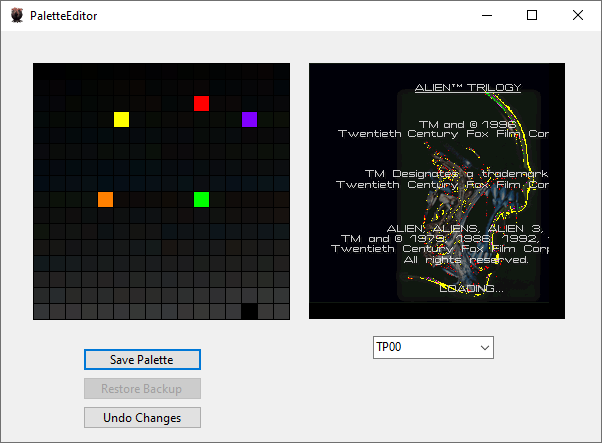
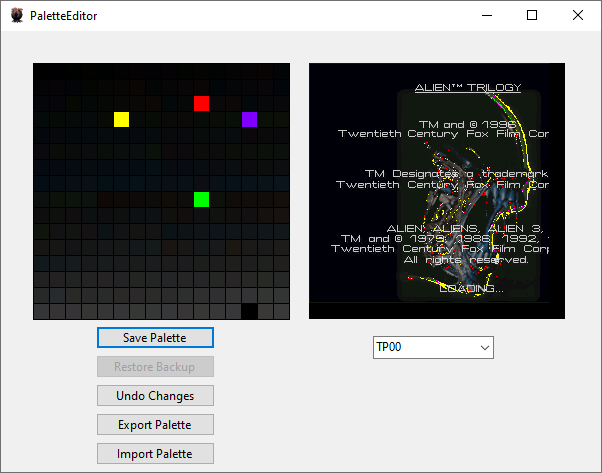
import palette option added

diff --git a/ALTViewer/PaletteEditor.cs b/ALTViewer/PaletteEditor.cs
@@ -12,7 +12,7 @@
         public PaletteEditor(string selected, bool embedded, List<BndSection> loadedSections)
         {
             InitializeComponent();
-            if(embedded)
+            if (embedded)
             {
 
             }
@@ -62,6 +62,7 @@
                     palette[index * 3 + 2] = dlg.Color.B;
                     Invalidate();
                     RenderImage();
+                    button3.Enabled = true;
                 }
             }
         }
@@ -82,16 +83,17 @@
             File.Move(backupDirectory, fileDirectory, true);
             File.Delete(backupDirectory);
             button2.Enabled = false;
-            ReDrawPalette();
+            palette = File.ReadAllBytes(fileDirectory);
+            Invalidate();
             RenderImage();
             MessageBox.Show("Palette restored from backup.");
         }
         // undo changes button clicked
-        private void button3_Click(object sender, EventArgs e) { ReDrawPalette(); }
-        public void ReDrawPalette()
+        private void button3_Click(object sender, EventArgs e)
         {
             palette = File.ReadAllBytes(fileDirectory);
-            Invalidate(); // Redraw with original colors
+            Invalidate();
+            button3.Enabled = false;
         }
         // frame selection
         private void comboBox1_SelectedIndexChanged(object sender, EventArgs e) { RenderImage(); }
@@ -119,6 +121,25 @@
                 string path = Path.Combine(fbd.SelectedPath, selectedPalette + ".PAL");
                 File.WriteAllBytes(path, palette);
                 MessageBox.Show($"Palette saved to : {path}");
+            }
+        }
+        // import palette file button click
+        private void button5_Click(object sender, EventArgs e)
+        {
+            using (OpenFileDialog openFileDialog = new OpenFileDialog())
+            {
+                openFileDialog.Filter = "PAL Files (*.pal)|*.pal|All Files (*.*)|*.*";
+                openFileDialog.FilterIndex = 1;
+                openFileDialog.RestoreDirectory = true;
+                openFileDialog.Title = "Select a palette (.pal) file";
+                openFileDialog.Multiselect = true;
+                if (openFileDialog.ShowDialog() == DialogResult.OK)
+                {
+                    palette = File.ReadAllBytes(openFileDialog.FileName);
+                    button3.Enabled = true;
+                    Invalidate();
+                    RenderImage();
+                }
             }
         }
     }

diff --git a/ALTViewer/PaletteEditor.Designer.cs b/ALTViewer/PaletteEditor.Designer.cs
@@ -35,6 +35,7 @@
             pictureBox1 = new PictureBox();
             comboBox1 = new ComboBox();
             button4 = new Button();
+            button5 = new Button();
             ((System.ComponentModel.ISupportInitialize)pictureBox1).BeginInit();
             SuspendLayout();
             // 
@@ -61,6 +62,7 @@
             // 
             // button3
             // 
+            button3.Enabled = false;
             button3.Location = new Point(95, 353);
             button3.Name = "button3";
             button3.Size = new Size(119, 23);
@@ -97,11 +99,22 @@
             button4.UseVisualStyleBackColor = true;
             button4.Click += button4_Click;
             // 
+            // button5
+            // 
+            button5.Location = new Point(95, 411);
+            button5.Name = "button5";
+            button5.Size = new Size(119, 23);
+            button5.TabIndex = 6;
+            button5.Text = "Import Palette";
+            button5.UseVisualStyleBackColor = true;
+            button5.Click += button5_Click;
+            // 
             // PaletteEditor
             // 
             AutoScaleDimensions = new SizeF(7F, 15F);
             AutoScaleMode = AutoScaleMode.Font;
-            ClientSize = new Size(600, 418);
+            ClientSize = new Size(600, 441);
+            Controls.Add(button5);
             Controls.Add(button4);
             Controls.Add(comboBox1);
             Controls.Add(pictureBox1);
@@ -123,5 +136,6 @@
         private PictureBox pictureBox1;
         private ComboBox comboBox1;
         private Button button4;
+        private Button button5;
     }
 }
